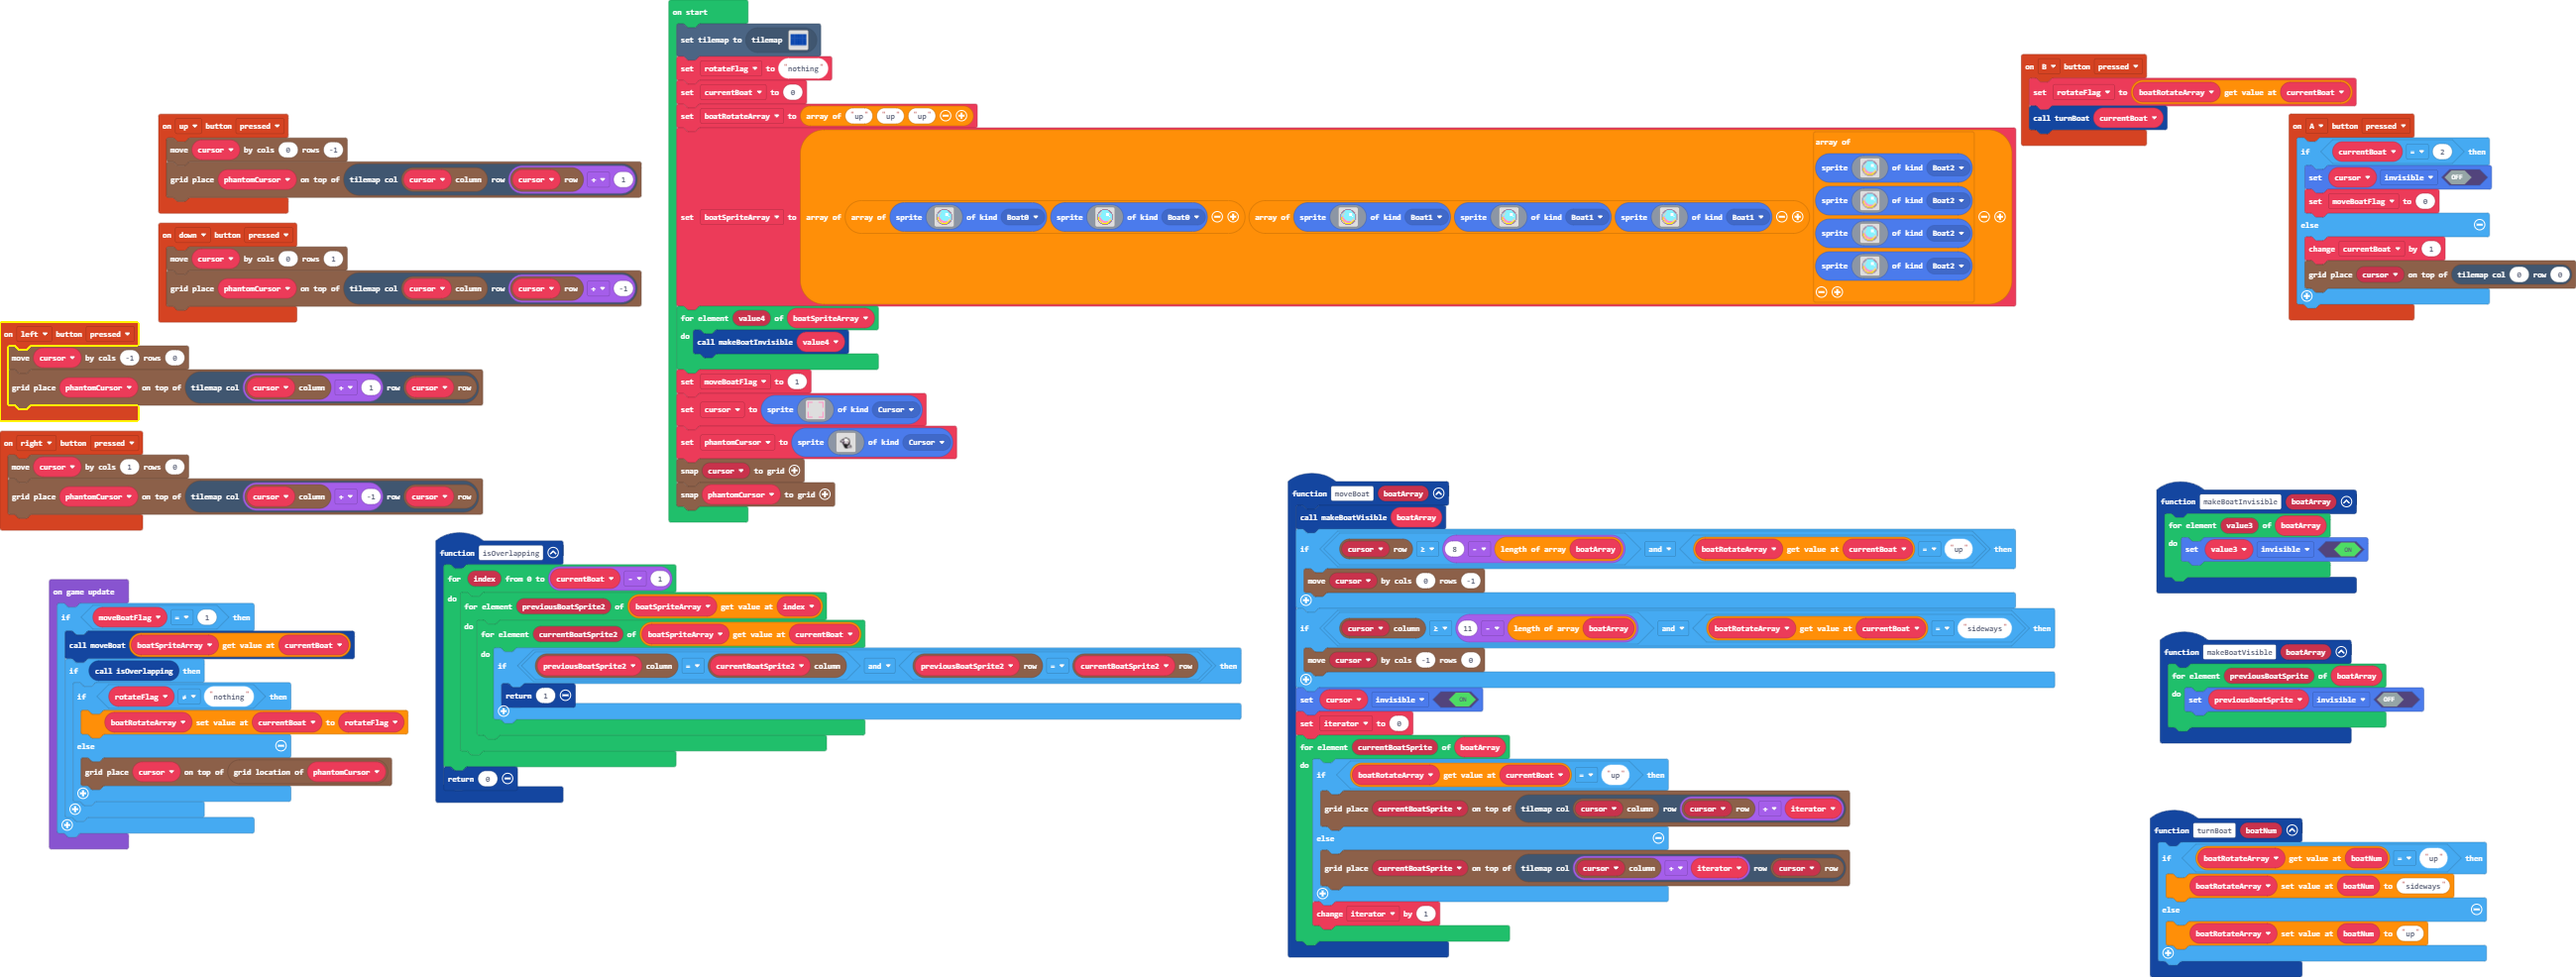
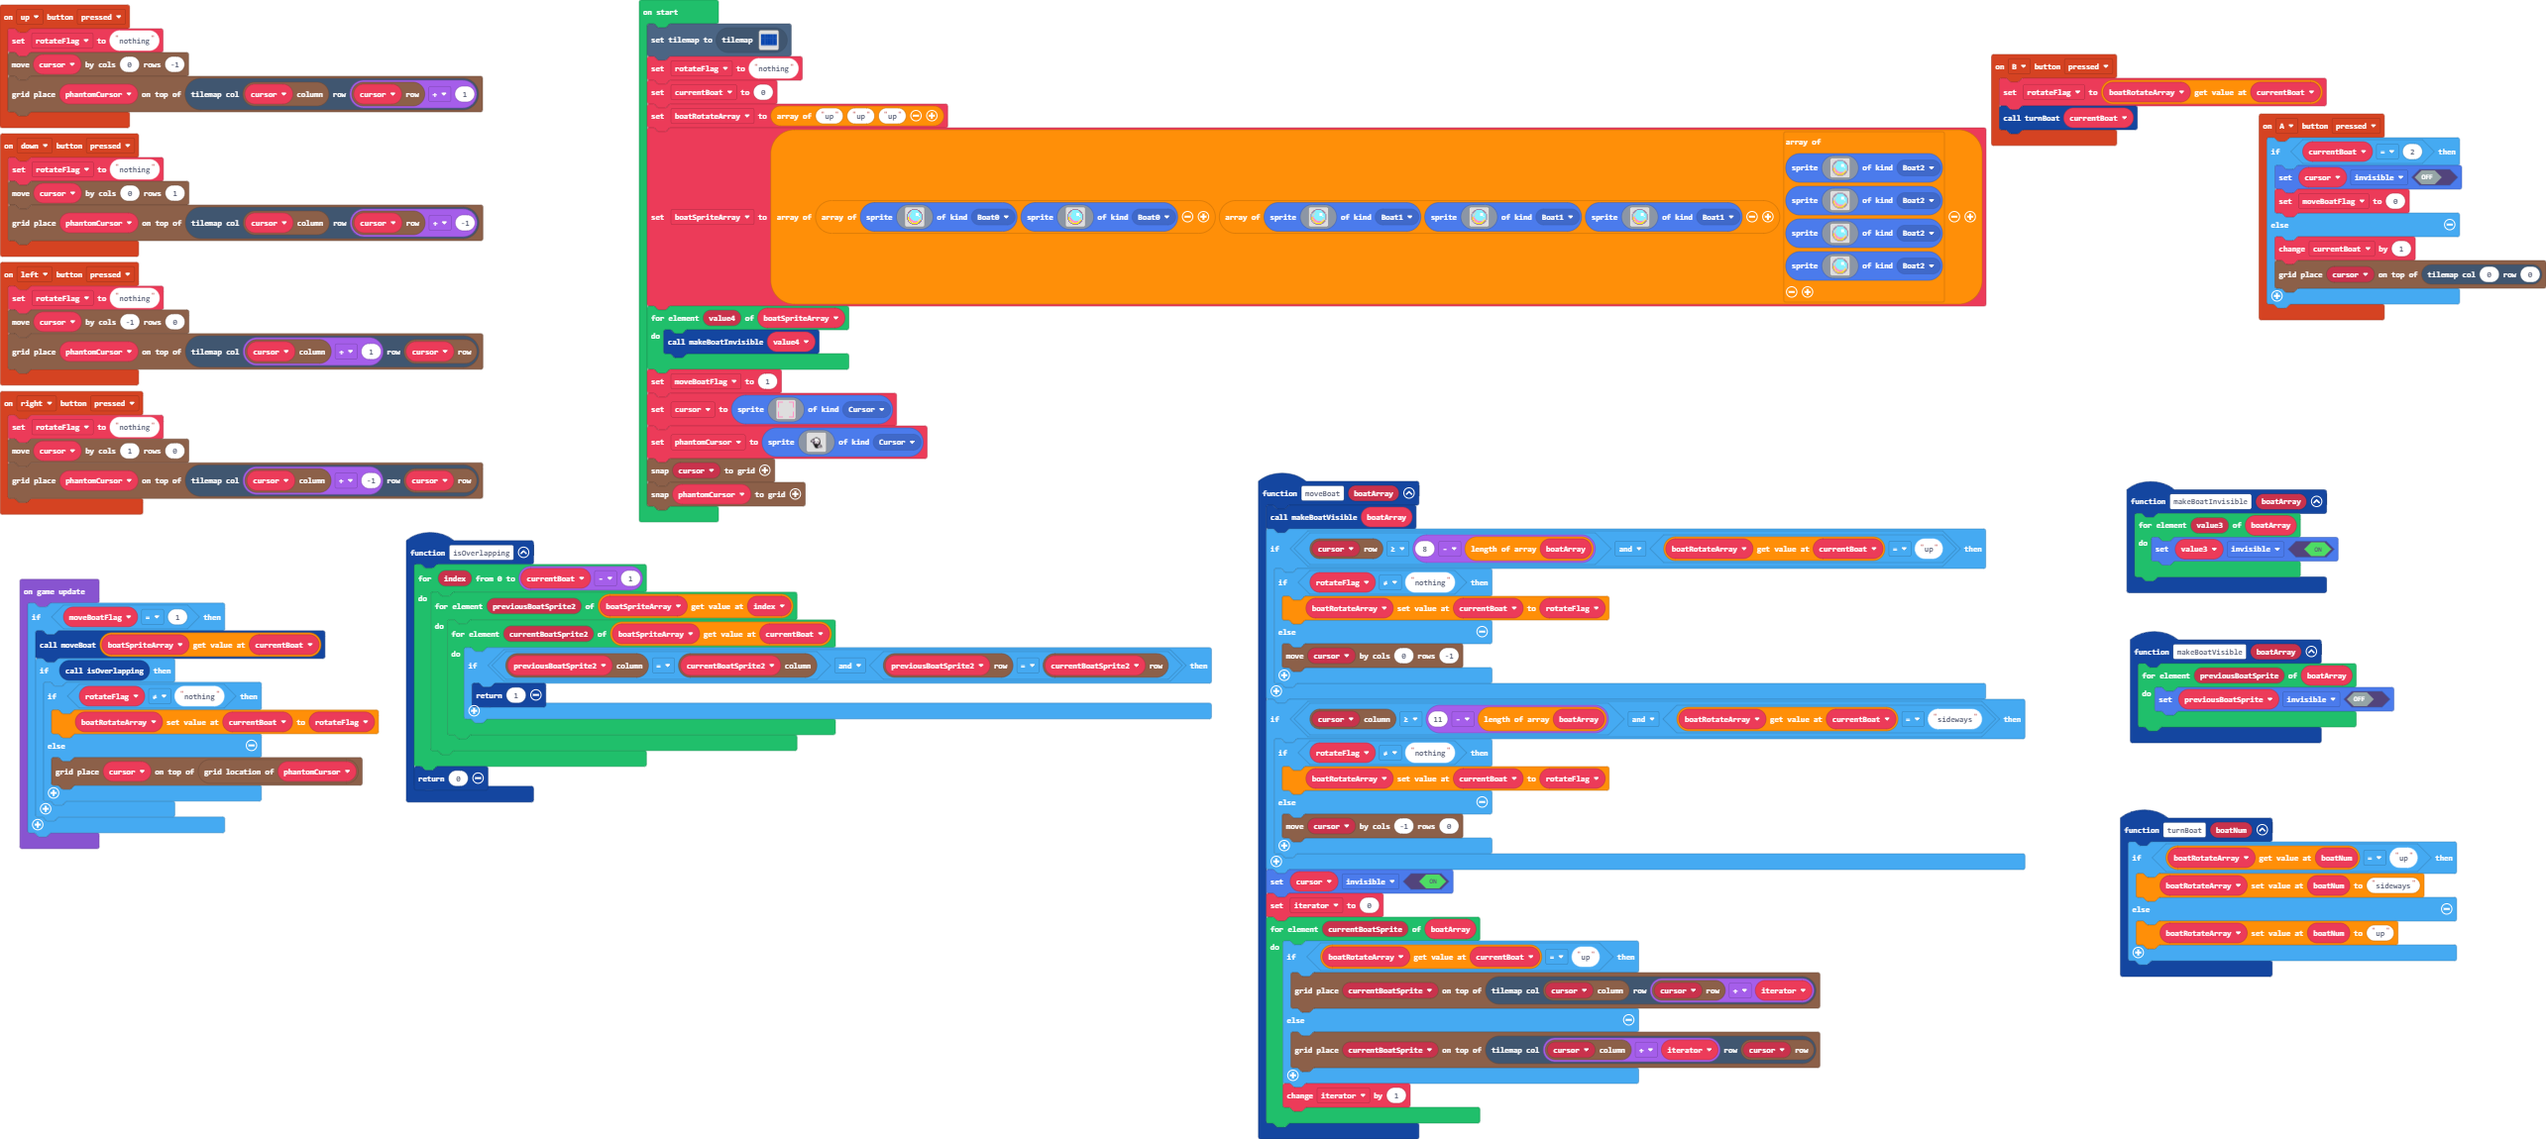
fixed rotate bug(bottom screen)

diff --git a/main.ts b/main.ts
@@ -5,6 +5,7 @@ namespace SpriteKind {
     export const Boat2 = SpriteKind.create()
 }
 controller.up.onEvent(ControllerButtonEvent.Pressed, function () {
+    rotateFlag = "nothing"
     grid.move(cursor, 0, -1)
     grid.place(phantomCursor, tiles.getTileLocation(grid.spriteCol(cursor), grid.spriteRow(cursor) + 1))
 })
@@ -27,20 +28,30 @@ controller.A.onEvent(ControllerButtonEvent.Pressed, function () {
     }
 })
 controller.left.onEvent(ControllerButtonEvent.Pressed, function () {
+    rotateFlag = "nothing"
     grid.move(cursor, -1, 0)
     grid.place(phantomCursor, tiles.getTileLocation(grid.spriteCol(cursor) + 1, grid.spriteRow(cursor)))
 })
 controller.right.onEvent(ControllerButtonEvent.Pressed, function () {
+    rotateFlag = "nothing"
     grid.move(cursor, 1, 0)
     grid.place(phantomCursor, tiles.getTileLocation(grid.spriteCol(cursor) + -1, grid.spriteRow(cursor)))
 })
 function moveBoat (boatArray: any[]) {
     makeBoatVisible(boatArray)
     if (grid.spriteRow(cursor) >= 8 - boatArray.length && boatRotateArray[currentBoat] == "up") {
-        grid.move(cursor, 0, -1)
+        if (rotateFlag != "nothing") {
+            boatRotateArray[currentBoat] = rotateFlag
+        } else {
+            grid.move(cursor, 0, -1)
+        }
     }
     if (grid.spriteCol(cursor) >= 11 - boatArray.length && boatRotateArray[currentBoat] == "sideways") {
-        grid.move(cursor, -1, 0)
+        if (rotateFlag != "nothing") {
+            boatRotateArray[currentBoat] = rotateFlag
+        } else {
+            grid.move(cursor, -1, 0)
+        }
     }
     cursor.setFlag(SpriteFlag.Invisible, true)
     iterator = 0
@@ -54,6 +65,7 @@ function moveBoat (boatArray: any[]) {
     }
 }
 controller.down.onEvent(ControllerButtonEvent.Pressed, function () {
+    rotateFlag = "nothing"
     grid.move(cursor, 0, 1)
     grid.place(phantomCursor, tiles.getTileLocation(grid.spriteCol(cursor), grid.spriteRow(cursor) + -1))
 })
